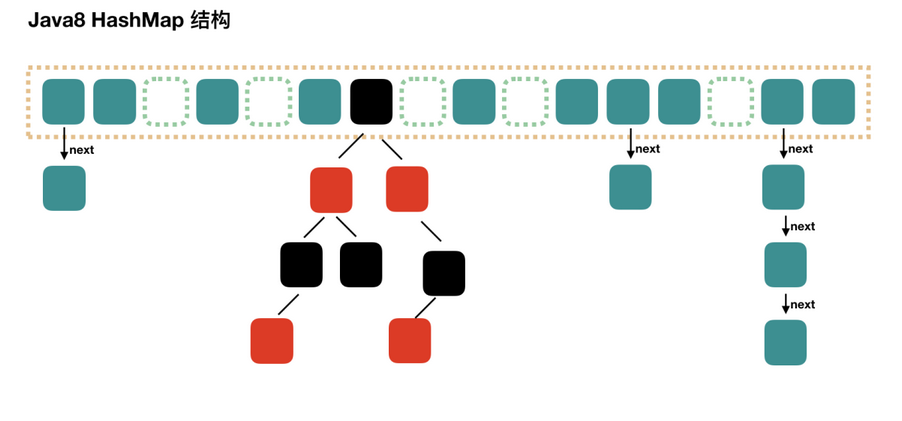
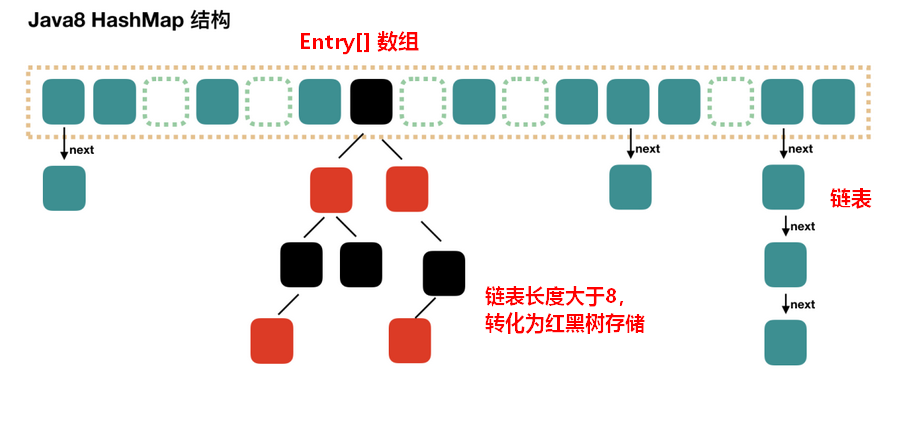
update: spring、MySQL等笔记

Changed region(s): [[0.5277, 0.6793, 0.714, 0.8029], [0.3104, 0.0618, 0.4656, 0.1235], [0.9002, 0.4323, 0.9623, 0.4941]]

diff --git a/Java/Java扩展-JDK集合类源码分析.md b/Java/Java扩展-JDK集合类源码分析.md
@@ -582,13 +582,7 @@ public class MyArrayList {
 
 ## 2. HashMap 源码分析
 
-### 2.1. 数据存储实现原理（TODO: 待整理）
-
-> TODO: 待将面试题那边整理的移动到此处
-
-> Notes: HashMap 实现原理在 Java 8 前后有很大区别。
-
-### 2.2. HashMap 的实现原理
+### 2.1. HashMap 数据存储实现原理
 
 HashMap 是基于哈希表的 Map 接口的非同步实现。此实现提供所有可选的映射操作，并允许使用 null 值和 null 键。此类不保证映射的顺序，特别是它不保证该顺序恒久不变。
 
@@ -610,26 +604,22 @@ HashMap 基于 Hash 算法实现的，具体如下：
 
 > 需要注意 Jdk 1.8 中对 HashMap 的实现做了优化，当链表中的节点数据超过八个之后，该链表会转为红黑树来提高查询效率，从原来的 `O(n)` 到 `O(logn)`
 
-#### 2.2.1. JDK1.8 之前实现
+#### 2.1.1. JDK1.8 之前实现
 
 JDK1.8 之前采用的是拉链法。拉链法：将链表和数组相结合。也就是说创建一个链表数组，数组中每一格就是一个链表。若遇到哈希冲突，则将冲突的值加到链表中即可。
 
-![](images/184312214220852.png)
-
 ![](images/249015516248892.png)
 
-#### 2.2.2. JDK1.8 之后实现
+#### 2.1.2. JDK1.8 之后实现
 
 相比于之前的版本，jdk1.8 在解决哈希冲突时有了较大的变化，当链表长度大于阈值（默认为 8）时，将链表转化为红黑树，以减少搜索时间。
-
-![](images/13532314239278.png)
 
 ![](images/572825516236759.png)
 
 数组+链表。通过计算 key 的 hashCode 的值，再去取模来决定当前 Entry 对象存储的索引位置，如果当前位置为空，则直接存储；如果当时位置已经存在内容，则将给存储的数据加上 next 指针，指向之前存在的数据。
 jdk8 主要是对 HashMap 做了红黑树的优化，使树的结构相对平衡，减小链的长度，达到加快查询的速度
 
-#### 2.2.3. JDK1.7 VS JDK1.8
+#### 2.1.3. JDK1.7 VS JDK1.8
 
 JDK1.8 主要解决或优化了一下问题：
 
@@ -637,16 +627,26 @@ JDK1.8 主要解决或优化了一下问题：
 2. 引入了红黑树，目的是避免单条链表过长而影响查询效率
 3. 解决了多线程死循环问题，但仍是非线程安全的，多线程时可能会造成数据丢失问题。
 
-|         区别         |                             JDK1.7                              |                                        JDK1.8                                        |
-| -------------------- | --------------------------------------------------------------- | ------------------------------------------------------------------------------------ |
-| 存储结构              | 数组+链表                                                        | 数组+链表+红黑树                                                                        |
-| 初始化方式             | 单独函数：inflateTable()                                          | 直接集成到了扩容函数 resize()中                                                          |
-| hash 值计算方式        | 扰动处理=9 次扰动=4 次位运算+5 次异或运算                             | 扰动处理=2 次扰动=1 次位运算+1 次异或运算                                                  |
-| 存放数据的规则         | 无冲突时，存放数组；冲突时，存放链表                                   | 无冲突时：存放数组<br>冲突 & `链表长度 < 8`：存放单链表<br>冲突 & `链表长度 > 8`：树化并存放红黑树 |
-| 插入数据方式           | 头插法（先将原位置的数据移到后 1 位，再插入数据到该位置）                  | 尾插法（直接插入到链表尾部/红黑树）                                                         |
-| 扩容后存储位置的计算方式 | 全部按照原来方法进行计算（即`hashCode ->> 扰动函数 ->> (h&length-1)`） | 按照扩容后的规律计算（即`扩容后的位置=原位置 or 原位置 + 旧容量`）                              |
+JDK1.7 VS JDK1.8 具体的区别：
 
-### 2.3. (待学习)HashMap 的 put 方法的具体流程
+- **存储结构**：JDK1.7 是数组+链表；JDK1.8 是数组+链表+红黑树。
+- **初始化方式**：JDK1.7 使用单独函数 `inflateTable()`；JDK1.8 直接集成到了扩容函数 `resize()` 中。
+- **hash 值计算方式**：
+    - JDK1.7 扰动处理=9 次扰动=4 次位运算+5 次异或运算
+    - JDK1.8 扰动处理=2 次扰动=1 次位运算+1 次异或运算
+- **存放数据的规则**：
+    - JDK1.7 无冲突时，存放数组；冲突时，存放链表。
+    - JDK1.8 无冲突时：存放数组；冲突并且`链表长度 < 8`：存放单链表；冲突并且`链表长度 > 8`：树化并存放红黑树。
+- **插入数据方式**：JDK1.7 头插法（先将原位置的数据移到后 1 位，再插入数据到该位置）；JDK1.8 尾插法（直接插入到链表尾部/红黑树）。
+- **扩容后存储位置的计算方式**：
+    - JDK1.7 全部按照原来方法进行计算（即`hashCode ->> 扰动函数 ->> (h&length-1)`）
+    - JDK1.8 按照扩容后的规律计算（即`扩容后的位置 = 原位置` 或者 `扩容后的位置= 原位置 + 旧容量`）
+
+#### 2.1.4. 为什么要使用红黑树而不是二叉树
+
+主要是因为红黑树在插入和删除操作时，能够自动平衡树的结构，使得整棵树的高度保持在一个较小的范围内，从而保证查找、插入和删除操作的时间复杂度稳定在 `O(logn)`。而二叉树没有自平衡的特性，如果插入和删除操作不当，可能会导致树的高度过高，使得查找时间复杂度变为 `O(n)`，因此不适合用于高效的 Map 实现。
+
+### 2.2. (待学习)HashMap 的 put 方法的具体流程
 
 当 put 元素的时候，首先计算 key 的 hash 值，这里调用了 hash 方法，hash 方法实际是让`key.hashCode()`与`key.hashCode()>>>16`进行异或操作，高 16bit 补 0，一个数和 0 异或不变，所以 hash 函数大概的作用就是：**高 16bit 不变，低 16bit 和高 16bit 做了一个异或，目的是减少碰撞**。按照函数注释，因为 bucket 数组大小是 2 的幂，计算下标`index = (table.length - 1) & hash`，如果不做 hash 处理，相当于散列生效的只有几个低 bit 位，为了减少散列的碰撞，设计者综合考虑了速度、作用、质量之后，使用高 16bit 和低 16bit 异或来简单处理减少碰撞，而且 JDK8 中用了复杂度 `O(logn)`的树结构来提升碰撞下的性能。
 
@@ -665,9 +665,11 @@ putVal 方法执行流程图
 
 ![](images/479803615246033.png)
 
-### 2.4. (待学习)HashMap 的扩容操作是怎么实现的？
+### 2.3. (待学习)HashMap 的扩容操作是怎么实现的？
 
 > TODO: 待整理
+
+当 HashMap 的数组大小达到一定的阈值（默认为 75%），会触发扩容操作。扩容的过程会重新计算每个键值对的哈希值，然后将其存储在新的数组位置上。扩容操作需要耗费一定的时间，因此需要在初始化时预估 HashMap 中键值对的数量，以便尽可能地减少扩容操作的次数。
 
 ## 3. HashSet 源码分析
 

diff --git a/Java/Java基础-集合.md b/Java/Java基础-集合.md
@@ -496,7 +496,7 @@ ArrayList<String> newArray = new ArrayList<String>(array); // newArray 是可以
 
 #### 2.9.1. ArrayList 和 LinkedList 的区别与选择
 
-区别：
+**区别**：
 
 - **数据结构实现**：ArrayList 是动态数组的数据结构实现；而 LinkedList 是双向链表的数据结构实现。
 - **随机访问效率**：ArrayList 比 LinkedList 在随机访问的时候效率要高，因为 LinkedList 是线性的数据存储方式，所以需要移动指针从前往后依次查找。
@@ -507,8 +507,9 @@ ArrayList<String> newArray = new ArrayList<String>(array); // newArray 是可以
     - LinkedList 比 ArrayList 更占内存，因为 LinkedList 的节点除了存储数据，还存储了两个引用，一个指向前一个元素，一个指向后一个元素。
     - ArrayList 是连续内存存储；而 LinkedList 分散在内存中，
 - **线程安全**：ArrayList 和 LinkedList 都是不同步的，也就是不保证线程安全；
+- **迭代器性能**：在迭代操作时，ArrayList 使用普通迭代器或增强 for 循环的性能比 LinkedList 更优。因为 ArrayList 的数据存储在连续的内存中，迭代时可以直接访问内存，而 LinkedList 需要通过遍历链表来访问每个元素。
 
-类型选择与使用建议：
+**类型选择与使用建议**：
 
 - 如果需要大量非首尾增删元素，则建议使用 LinkedList
 - 如果只是遍历查询元素，不进行增删操作，则建议使用 ArrayList
@@ -1320,19 +1321,28 @@ public class EntrySetTest {
 
 #### 6.4.1. 概述
 
-HashMap：基于哈希表的 Map 接口的实现类，并允许使用 `null` 的值和 `null` 的键（<font color=purple>**HashMap 最多只允许一条记录的键为 null，允许多条记录的值为 null。**</font>）。
+HashMap：基于哈希表的 Map 接口的实现类
 
-HashMap 使用『数组+链表+红黑树』（JDK1.8增加了红黑树部分）实现的， 链表长度大于8（`TREEIFY_THRESHOLD`）时，会把链表转换为红黑树，红黑树节点个数小于6（`UNTREEIFY_THRESHOLD`）时才转化为链表，防止频繁的转化。
+```java
+public class HashMap<K,V> extends AbstractMap<K,V> implements Map<K,V>, Cloneable, Serializable
+```
 
-HashMap 有如下特点
+HashMap 有如下特点：
 
  - 键是唯一，基于键的 HashCode 值唯一标识一条数据，同时基于键的 HashCode 值进行数据的存取。
  - <font color=red>**存储和取出无法保证顺序一致**</font>。
  - 非线程安全。同一时间有多个线程同时对 HashMap 进行写操作，将可能导致数据的不一致。*如需要满足线程安全的条件，可使用 `Collections` 的 `synchronizedMap` 方法使 HashMap 具有线程安全的能力，或者使用 `ConcurrentHashMap`*。
+ - 允许使用 `null` 的值和 `null` 的键（<font color=purple>**HashMap 最多只允许一条记录的键为 null，允许多条记录的值为 null**</font>）
 
-##### 6.4.1.1. Java 8 以后的实现
+> Tips: 更多实现原理详见[《Java扩展-JDK集合类源码分析》笔记](/Java/Java扩展-JDK集合类源码分析)
 
-为了减少链表遍历的开销，Java 8 对 HashMap 进行了优化，将数据结构修改为**数组+链表或红黑树**。在链表中的元素超过 8 个以后，HashMap 会将链表结构转换为红黑树结构以提高查询效率，因此其时间复杂度为 `O(log N)`。
+##### 6.4.1.1. 存储结构
+
+HashMap 在 JDK 1.7 以前的数据存储结构是『数组+链表』。
+
+为了减少链表遍历的开销，JDK 1.8 开始对 HashMap 进行了优化，增加了红黑树部分，将数据存储结构修改为『数组+链表+红黑树』。当链表长度大于8（`TREEIFY_THRESHOLD`）时，会把链表转换为红黑树，红黑树节点个数小于6（`UNTREEIFY_THRESHOLD`）时才转化为链表，防止频繁的转化。
+
+HashMap 将链表结构转换为红黑树结构后，提高了查询效率，因此其时间复杂度为 `O(log N)`。
 
 ##### 6.4.1.2. 常用参数
 

diff --git a/Java/Java扩展-数据结构.md b/Java/Java扩展-数据结构.md
@@ -213,11 +213,22 @@
 
 > TODO: 待整理
 
-## 10. B-TREE（待整理）
+## 10. B TREE（待整理）
 
 > TODO: 待整理
 
-## 11. 位图
+## 11. B+Tree（待整理）
+
+### 11.1. b+tree 和 b tree 的区别
+
+B 树和 B+树是常用的一种平衡搜索树，它们的主要区别在于内部节点和叶子节点的存储方式和指针结构不同，从而导致它们在不同场景下具有不同的性能特点。
+
+- B 树是一种多路平衡查找树，**每个节点可以存储多个 key-value 键值对**，具有较好的磁盘 IO 性能。B 树通常被用于文件系统和数据库系统中，可以高效地支持范围查找和随机访问等操作。
+- B+树是在 B 树的基础上进一步优化的一种平衡树，**其内部节点仅存储 key，而真正的 value 均存储在叶子节点中**。这种设计使得 B+树具有更好的磁盘 IO 性能和更高的查询效率，适用于需要频繁范围查询和顺序遍历的场景，例如数据库索引。
+
+总结：B+树与 B 树相比，具有更高的查询效率和更好的空间利用率。因为 B+树只需要访问叶子节点才能查找到 value，而 B 树需要遍历所有节点。此外，B+树的内部节点仅存储 key，可以存储更多的 key，从而提高了空间利用率。
+
+## 12. 位图
 
 位图的原理就是用一个 bit 来标识一个数字是否存在，采用一个 bit 来存储一个数据，所以这样可以大大的节省空间。 bitmap 是很常用的数据结构，比如用于 Bloom Filter 中；用于无重复整数的排序等等。
 

diff --git a/Java/Java基础-网络编程.md b/Java/Java基础-网络编程.md
@@ -415,7 +415,7 @@ TCP 包的数据结构如下：
 4. 确认号 ack（ 32 位）：包含发送确认的一端所期望收到的下一个顺序号。因此，确认序号应当是上次已成功收到数据字节顺序号加 1。只有 ACK 标志为 1 时确认序号字段才有效。TCP 为应用层提供全双工服务，这意味数据能在两个方向上独立地进行传输。因此，连接的每一端必须保持每个方向上的传输数据顺序号。
 5. TCP 报头长度（ 4 位）：给出报头中 32bit 字的数目，它实际上指明数据从哪里开始。需要这个值是因为任选字段的长度是可变的。这个字段占 4bit ，因此 TCP 最多有 60 字节的首部。然而，没有任选字段，正常的长度是 20 字节。
 6. 保留位（ 6 位）：保留给将来使用，目前必须置为 0 。
-7. 控制位（ control flags ， 6 位）：在 TCP 报头中有 6 个标志比特，它们中的多个可同时被设置为 1 。依次为：
+7. 控制位（ control flags ，6 位）：在 TCP 报头中有 6 个标志比特，它们中的多个可同时被设置为 1 。依次为：
     - URG ：为 1 表示紧急指针有效，为 0 则忽略紧急指针值。
     - ACK ：为 1 表示确认号有效，为 0 表示报文中不包含确认信息，忽略确认号字段。
     - PSH ：为 1 表示是带有 PUSH 标志的数据，指示接收方应该尽快将这个报文段交给应用层而不用等待缓冲区装满。

diff --git a/数据库/MySQL/MySQL-运维.md b/数据库/MySQL/MySQL-运维.md
@@ -450,8 +450,8 @@ join_buffer_size=4M
 有3个线程以及之间的关联，基本原理流程如下：
 
 - 第一步：master 在每个事务更新数据完成之前，开启 binlog 线程，将所有改变数据库的操作记录串行地写入到 master 的 binlog 文件中。
-- 第二步：salve 开启一个I/O Thread，该线程在 master 打开一个普通连接，主要工作是 binlog dump process。如果读取的进度已经跟上了 master，就进入睡眠状态并等待 master 产生新的事件。I/O线程最终的目的是将 master 的 binlog 内容写入到自己的 relay log（中继日志）中。
-- 第三步：salve 开户一个 SQL Thread，会读取 relay log（中继日志），并顺序执行该日志中的 SQL 事件，从而与主数据库中的数据保持一致。
+- 第二步：salve 开启一个 I/O Thread，该线程在 master 打开一个普通连接，主要工作是 binlog dump process。如果读取的进度已经跟上了 master，就进入睡眠状态并等待 master 产生新的事件。I/O 线程最终的目的是将 master 的 binlog 内容写入到自己的 relay log（中继日志）中。
+- 第三步：salve 开启一个 SQL Thread，会读取 relay log（中继日志），并顺序执行该日志中的 SQL 事件，从而与主数据库中的数据保持一致。
 
 ## 4. 数据库的备份与恢复
 

diff --git a/后端框架/Spring/Spring源码-IOC.md b/后端框架/Spring/Spring源码-IOC.md
@@ -5248,7 +5248,7 @@ private Enhancer newEnhancer(Class<?> configSuperClass, @Nullable ClassLoader cl
 
 BeanPostProcessor 接口类型实例是针对某种特定功能的埋点，在这个点会根据接口类型来过滤掉不关注这个点的其他类，只有真正关注的类才会在这个点进行相应的功能实现。
 
-### 1.1. 获取有`@Autowired`注解的构造函数埋点
+### 1.1. 获取有 @Autowired 注解的构造函数埋点
 
 - 作用：用于收集创建中Bean实例中有`@Autowired`注解的构造函数
 - 此功能实现的`BeanPostProcessor`接口类型是：`SmartInstantiationAwareBeanPostProcessor`
@@ -5484,7 +5484,7 @@ public void testPropertiesByXml() {
 
 ![](images/20210213224956223_12043.png)
 
-#### 2.1.4. 通过`ResourceLoaderAware`接口实现读取properties配置文件
+#### 2.1.4. 通过 ResourceLoaderAware 接口实现读取 properties 配置文件
 
 - 实现`ResourceLoaderAware`接口，通过`setResourceLoader`方法获取到资源加载对象`ResourceLoader`，通过该对象读取properties文件，手动设置到spring的占位符解析器`PropertySourcesPlaceholderConfigurer`
 

diff --git a/数据库/MySQL/MySQL-体系架构.md b/数据库/MySQL/MySQL-体系架构.md
@@ -699,7 +699,7 @@ binlog 二进制日志记录了对 MySQL 数据库所有执行过的修改操作
 
 > Tips: 开启 binlog 记录功能，会对 MySQL 的性能造成影响，但是性能损失十分有限。根据 MySQL 官方手册中的测试指明，开启二进制日志会使性能下降 1%。但如果需要恢复数据或主从复制功能，则好处则大于对服务器的影响。
 
-### 5.1. 二进制日志的几种作用
+### 5.1. 二进制日志的作用
 
 - 恢复（recovery）：某些数据的恢复需要二进制日志，例如，在一个数据库全备文件恢复后，用户可以通过二进制文件进行 point-in-time 的恢复
 - 复制（replication）：其原理与恢复类似，通过复制和执行二进制日志使一台远程的 MySQL 数据库（一般称为 slave 或 standby）与一台 MySQL 数据库（一般称为 master 或 primary）进行实时同步

diff --git a/分布式微服务/SpringBoot/Spring-Boot-部署运维篇.md b/分布式微服务/SpringBoot/Spring-Boot-部署运维篇.md
@@ -396,9 +396,9 @@ spring-boot:run -DactiveName=pro -Dmaven.test.skip=true
 
 ### 3.3. 使用 maven 命令
 
-需要将依赖的公共包安装到本地仓库，到时需要依赖打包到 war 包中
+需要将依赖的公共包安装到本地仓库，到时需要依赖打包到 war 包中。
 
-项目打包：因为配置了开发环境与正式版本环境的两套配置文件，使用 maven 命令打包时，需要输入配置文件的参数，进行打包即可，完成后将 war 包放到 tomcat 运行部署
+项目打包：因为配置了开发环境与正式版本环境的两套配置文件，使用 maven 命令打包时，需要输入配置文件的参数，进行打包即可，完成后将 war 包放到 tomcat 运行部署。
 
 ```shell
 # 项目安装

diff --git a/后端框架/Spring/Spring-基础.md b/后端框架/Spring/Spring-基础.md
@@ -1153,7 +1153,7 @@ public class SpringConfiguration {
 }
 ```
 
-*注：其中`initMethod = "init"`和`destroyMethod = "destory"`与CustomBean类里的init，destory方法相对应*
+*注：其中`initMethod = "init"`和`destroyMethod = "destory"`与 CustomBean 类里的 init，destory 方法相对应*
 
 - 测试代码
 
@@ -3016,7 +3016,7 @@ public class ConfigApp {}
 ```
 
 ### 10.8. BeanFactory 和 ApplicationContext 的区别
-  
+
 两者创建对象的时间点不一样
 
 - `ApplicationContext`：只要读取到配置文件，默认情况下就会创建对象
